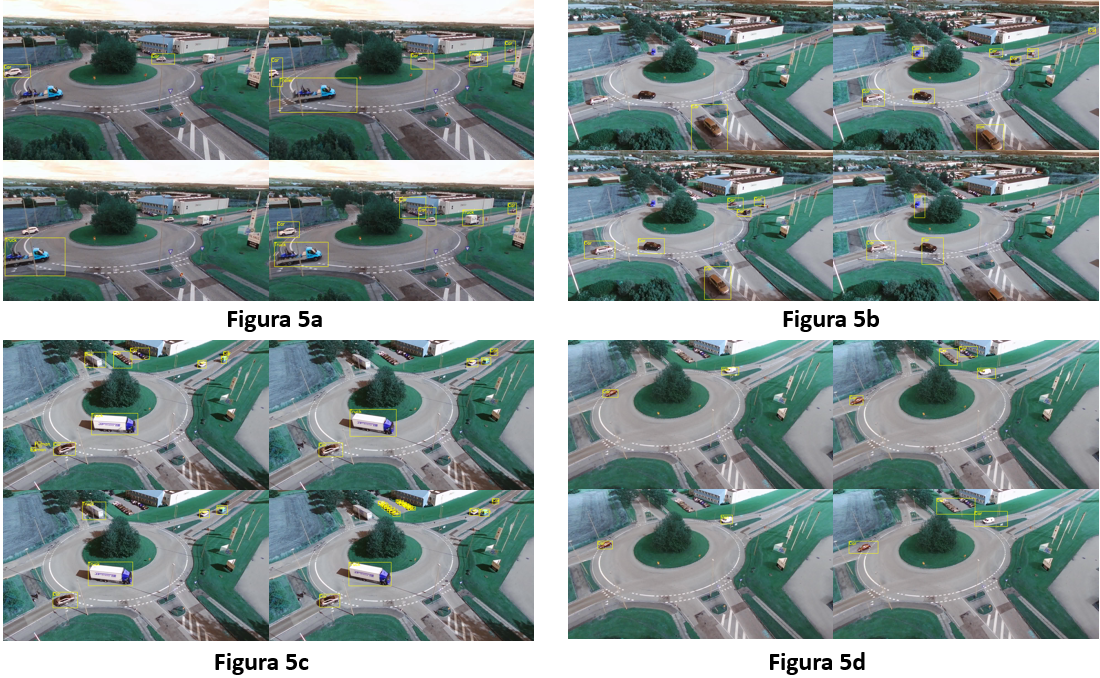
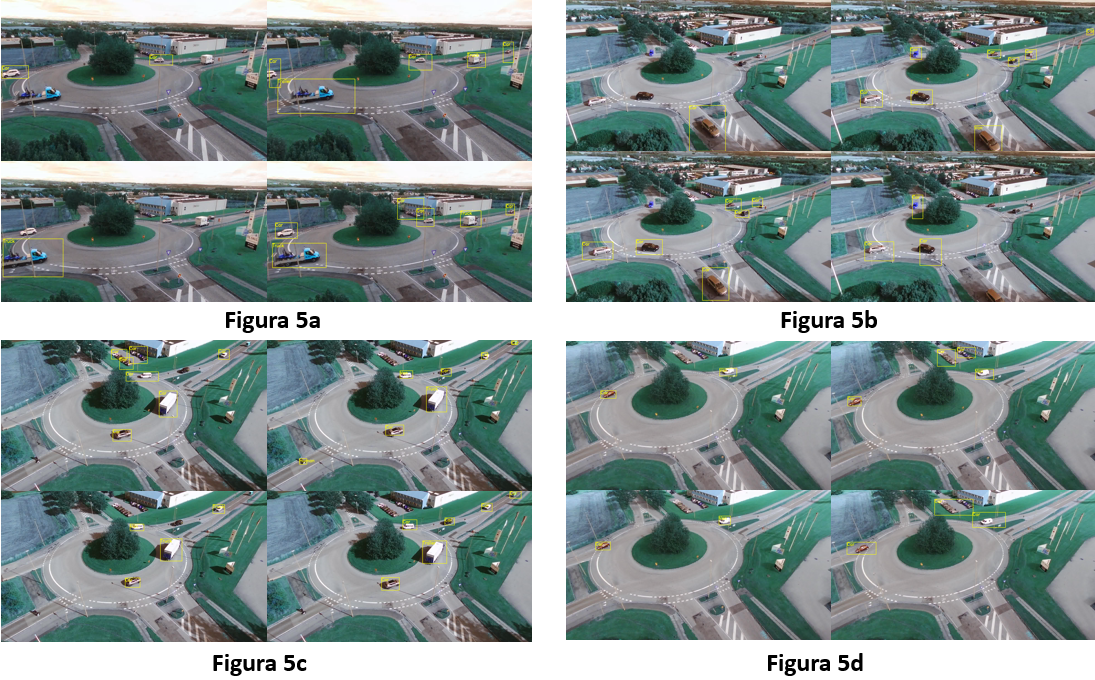
Actualizacion red

diff --git a/Red_neuronal/examples/Main.py b/Red_neuronal/examples/Main.py
@@ -14,17 +14,17 @@ auairdataset = AUAIR(annotation_file=annotFile, data_folder = dataDir)
 ##############################################################
       #MOSTRAR LAS IMAGENES YA CON LA CLASIFICACION#
 ##############################################################
-for i in range(1,3):
+for i in range(58,62):
     # Always 13 frames
     #print("Display image which has index %d:" %i) #opcion de seleccionar frame para detectar por medio de index
     #auairdataset.display_bboxes(i)
     #ret_name = "frame_20190905091750_x_00048" + str(i) + ".jpg" #Video 2
     #ret_name = "frame_20190905103112_x_00022"+str(i)+".jpg" #Video 3
-    #ret_name = "frame_20190905111947_x_00003" + str(i) + ".jpg"  # Video 4
+    ret_name = "frame_20190905111947_x_00003" + str(i) + ".jpg"  # Video 4
     #auairdataset.display_bboxes(ret_name)
     #ret_name = "frame_20190905112522_x_000219"+str(i)+".jpg" #Video 5.1
     #ret_name = "frame_20190905112522_x_000220"+str(i)+".jpg" # Video 5.2
-    ret_name = "frame_20190905112522_x_000220"+str(i)+".jpg" # Video 5.3-5.4
+    #ret_name = "frame_20190905112522_x_000220"+str(i)+".jpg" # Video 5.3-5.4
 
     auairdataset.display_bboxes(ret_name)
 
